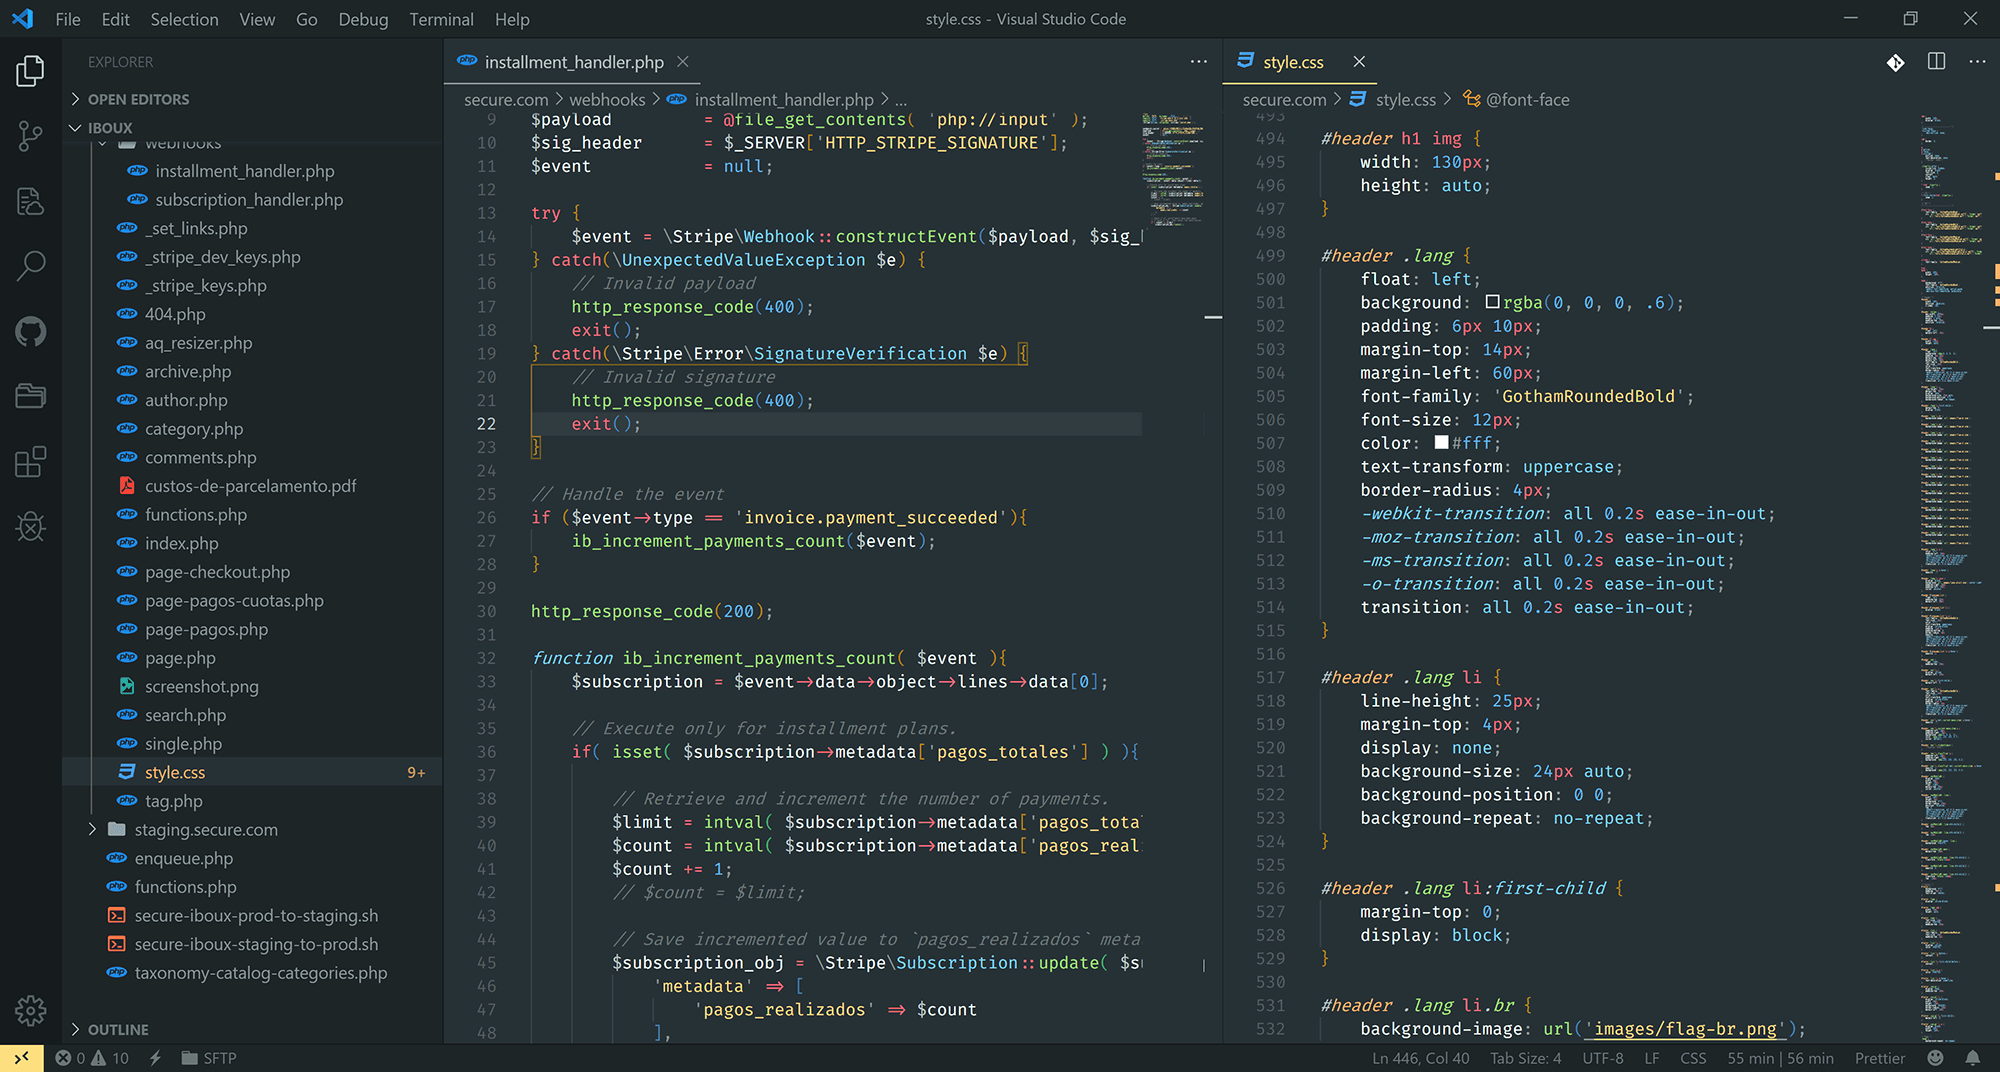
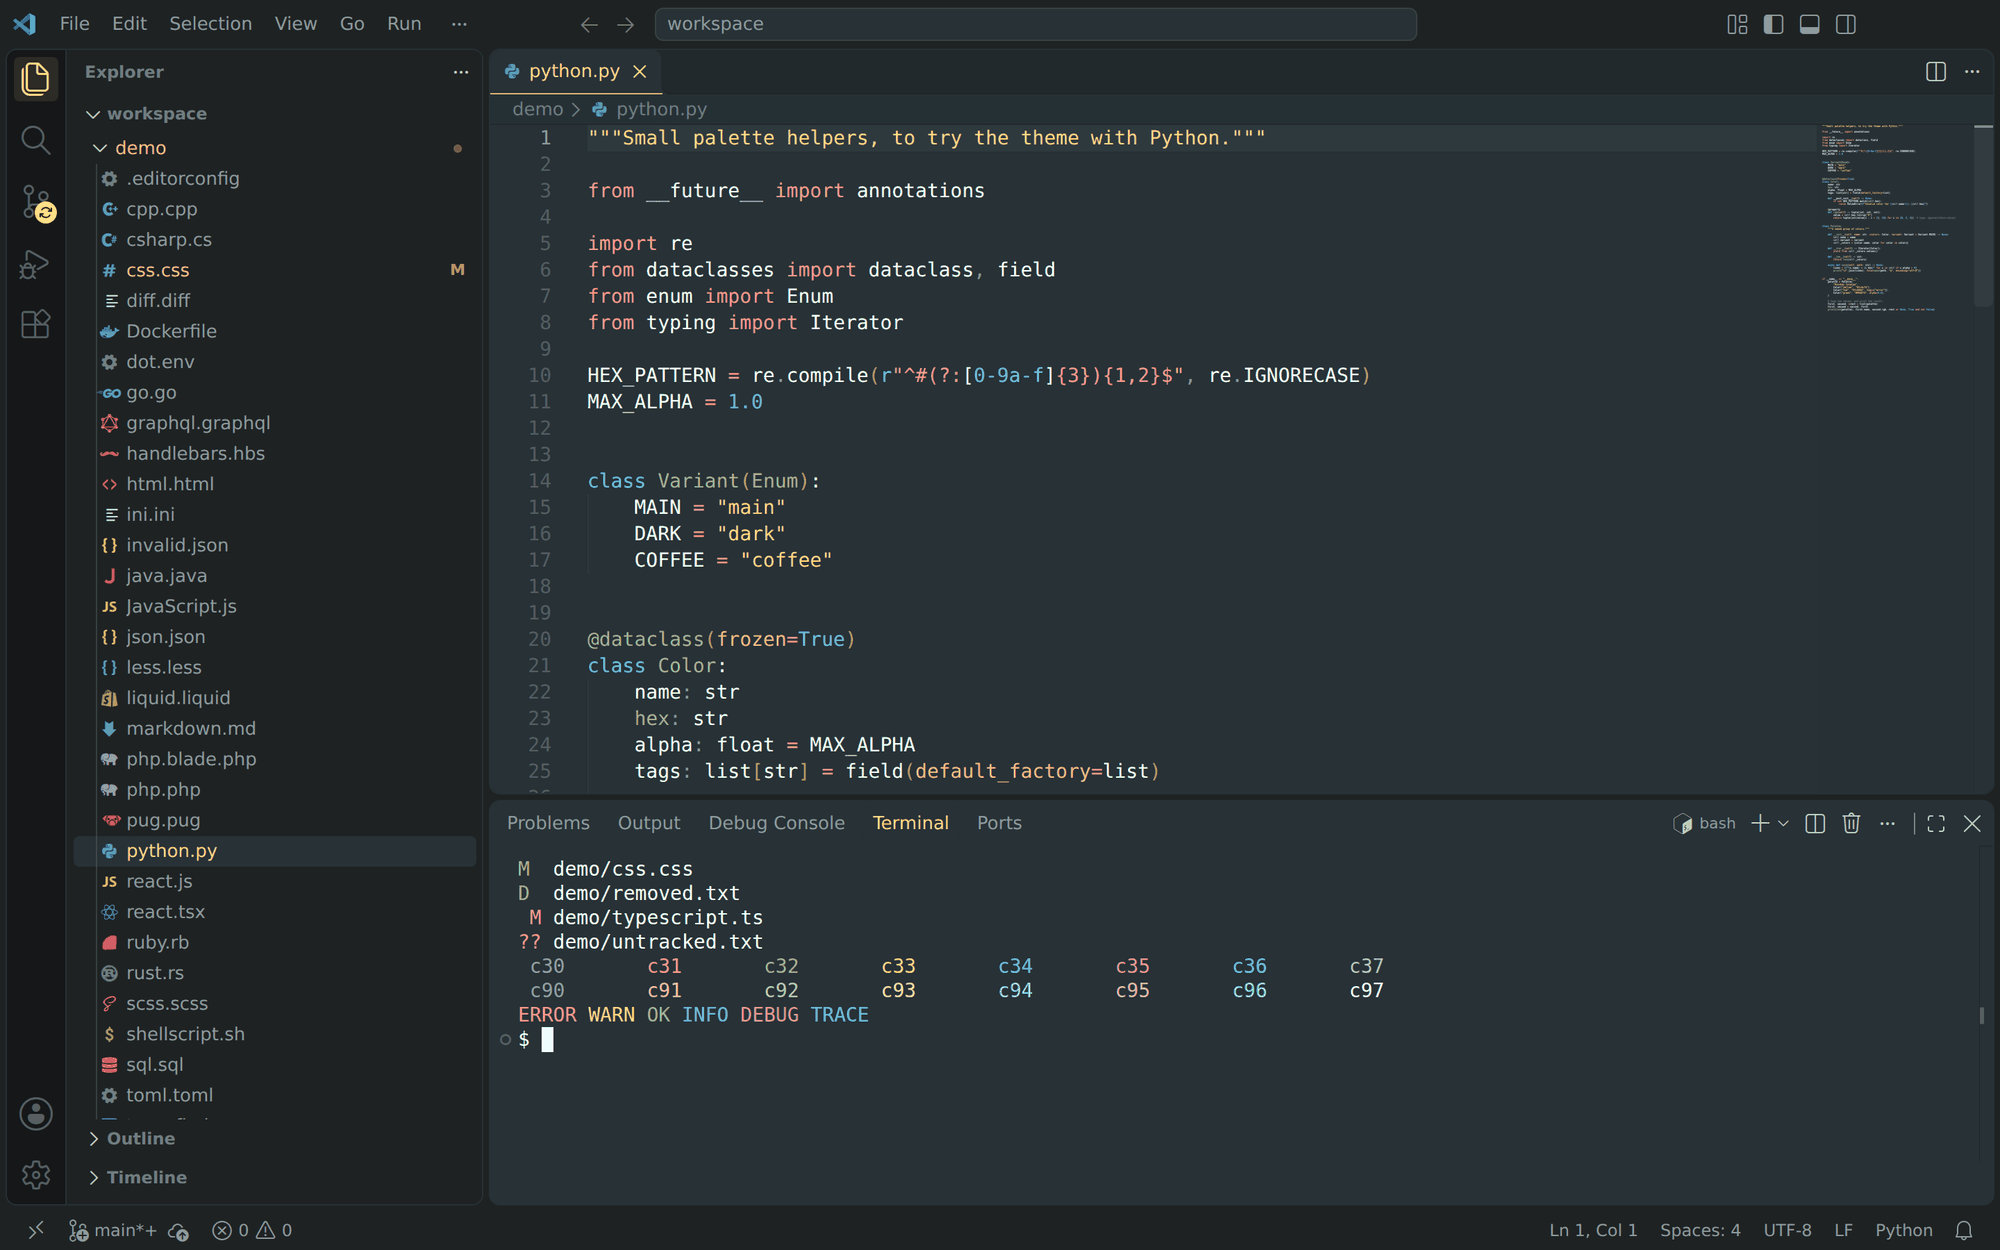
📖 DOC: Update the README for 2.2.0
New screenshots taken with npm run screenshots (the old one showed client code and
the 2019 UI), a variants image, current install steps, theme-scoped customization,
and a development section. Drops the bracket pair colorization tip, which is now on
by default.

diff --git a/README.md b/README.md
@@ -6,28 +6,48 @@
 
 ![Preview](https://raw.githubusercontent.com/IlanVivanco/monokai-cotalpa/main/images/screenshot.png)
 
-# Installation
+## Installation
 
-1. Open **Extensions** sidebar panel in VS Code. `View → Extensions`
-2. Search for `Cotalpa` - find the one by **Ilán Vivanco**
-3. Click **Install** to install it.
-4. Code > Preferences > Color Theme > **Monokai Cotalpa**
-5. Enjoy
+1. Open the **Extensions** view (`Ctrl+Shift+X`, or `Cmd+Shift+X` on macOS).
+2. Search for `Cotalpa` and install the one by **Ilán Vivanco**.
+3. Open the theme picker (`Ctrl+K Ctrl+T`, or `Cmd+K Cmd+T` on macOS) and choose **Monokai Cotalpa**.
+
+You can also install it from the command line:
+
+```sh
+code --install-extension ilanvivanco.cotalpa
+```
 
 ## Variants
 
-Every variant comes with an italic version.
+Every variant comes with an italic version, for example **Monokai Cotalpa Coffee Italic**.
 
 - **Monokai Cotalpa**: the main theme.
-- **Monokai Cotalpa Dark**: darker backgrounds.
+- **Monokai Cotalpa Dark**: the same colors on darker backgrounds.
 - **Monokai Cotalpa Coffee**: warm, coffee-toned grays.
 
-## If you don't like something
+![Main, Dark and Coffee variants](https://raw.githubusercontent.com/IlanVivanco/monokai-cotalpa/main/images/variants.png)
 
-First, this theme is new so if something is funky, please open an issue.
-If you would like to change something, you can either open a PR and see if I'd like it added, or override the colors in your own settings.json file.
+The theme also covers the newer parts of VS Code: the modern layout, chat, the source control graph, the terminal, symbol icons and more. Semantic highlighting is on, and it uses the same colors as the syntax highlighting.
 
-https://code.visualstudio.com/docs/getstarted/theme-color-reference
+## Customization
+
+If something doesn't look right to you, please [open an issue](https://github.com/IlanVivanco/monokai-cotalpa/issues). You can also override any color in your `settings.json`. The `[Monokai Cotalpa*]` selector applies the change to every variant:
+
+```json
+"workbench.colorCustomizations": {
+	"[Monokai Cotalpa*]": {
+		"editor.background": "#1e2223"
+	}
+},
+"editor.tokenColorCustomizations": {
+	"[Monokai Cotalpa*]": {
+		"comments": "#8e9a9e"
+	}
+}
+```
+
+See the [theme color reference](https://code.visualstudio.com/api/references/theme-color) for every color you can change. To turn off semantic highlighting, set `"editor.semanticHighlighting.enabled": false`.
 
 ## Color reference
 
@@ -50,13 +70,13 @@ https://code.visualstudio.com/docs/getstarted/theme-color-reference
 
 ## Font style
 
-I recommend using a monospaced font containing ligatures like [Cascadia Code](https://github.com/microsoft/cascadia-code) or [Fira Code](https://github.com/tonsky/FiraCode).
+I recommend a monospaced font with ligatures, like [Cascadia Code](https://github.com/microsoft/cascadia-code) or [Fira Code](https://github.com/tonsky/FiraCode).
 
 ```json
 "editor.fontFamily": "'Cascadia Code', 'Fira Code', Consolas, monospace",
 ```
 
-Also, if you want to enable the Cursive form of the italic just remember to also add this:
+With Cascadia Code and the italic variants, you can also turn on its cursive italic:
 
 ```json
 "editor.fontLigatures": "'ss01', 'calt'",
@@ -64,6 +84,17 @@ Also, if you want to enable the Cursive form of the italic just remember to also
 
 ![Italic style](https://raw.githubusercontent.com/IlanVivanco/monokai-cotalpa/main/images/italic.jpg)
 
-## Extras
+## Development
 
-You can enable the VS Code native [Bracket pair colorization](https://code.visualstudio.com/blogs/2021/09/29/bracket-pair-colorization) option.
+The themes are generated from `src/`: the palette, the color scheme, the variants and the rules for the workbench, the syntax and semantic tokens.
+
+```sh
+npm install
+npm run build        # generates themes/ and the theme list in package.json
+npm run watch        # rebuilds on every change in src/
+npm run validate     # checks the rules against the VS Code theme color reference
+npm run screenshots  # takes screenshots of the themes in VS Code, in screenshots/
+npm run package      # builds the .vsix
+```
+
+To try your changes, press `F5` to open a VS Code window with the extension and the `demo/` files. In that window VS Code always starts with the first theme, so pick the variant you want to test from the theme picker.
